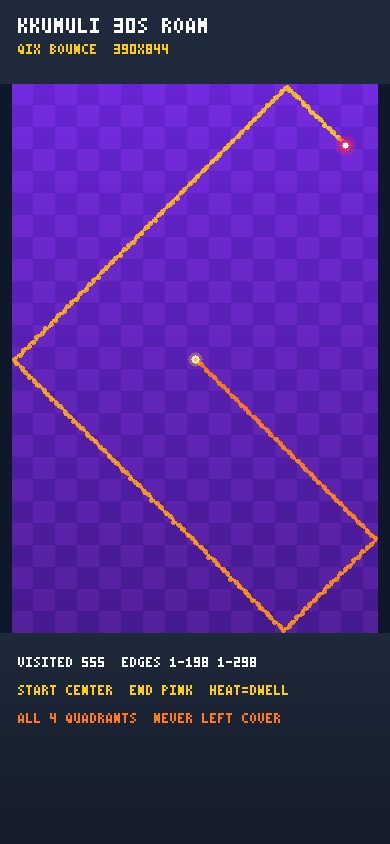
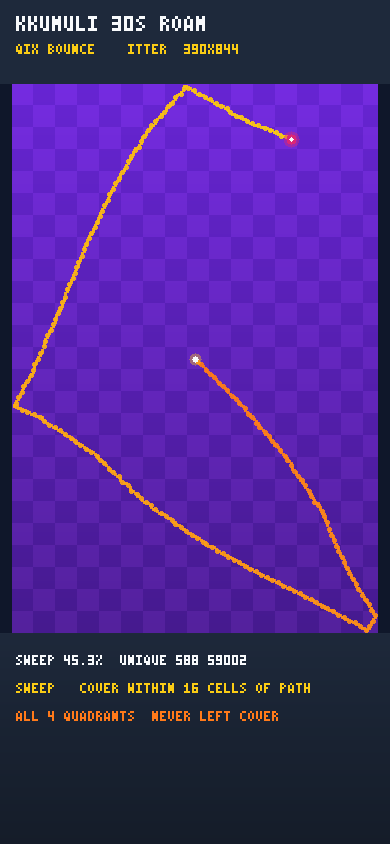
fix: deterministic match end, boss wall DDA, seeded roam, bloom
P0: QA room matchTicks 40 so dispose-after-end does not wait for a
boss hit. P1: substep <=0.5 cell plus segment DDA; 1-cell wall at
75% opened for 3000 ticks. P2: match-seed spawn, bounce jitter,
speed cap 1.8x player, stronger ~40px orb bloom and trail glow.

diff --git a/packages/engine/src/engine.ts b/packages/engine/src/engine.ts
@@ -32,6 +32,8 @@ import {
   stepFixed,
   toFp,
   wrapAngle,
+  COS,
+  SIN,
 } from './lut.js';
 import { claimClosedTrail, countCells } from './cover.js';
 import {
@@ -49,6 +51,7 @@ export function createInitialState(options?: {
   width?: number;
   height?: number;
   matchTicks?: number;
+  seed?: number;
 }): MatchState {
   const w = options?.width ?? GRID_WIDTH;
   const h = options?.height ?? GRID_HEIGHT;
@@ -70,6 +73,7 @@ export function createInitialState(options?: {
   grid[p1y][p1x] = CellType.SAFE_EDGE;
   grid[p2y][p2x] = CellType.SAFE_EDGE;
 
+  const spawn = spawnBoss(w, h, options?.seed ?? 0);
   return {
     grid,
     gridWidth: w,
@@ -77,10 +81,9 @@ export function createInitialState(options?: {
     player1: makePlayer(p1x, p1y, 192),
     player2: makePlayer(p2x, p2y, 64),
     boss: {
-      xFp: toFp(w >> 1),
-      yFp: toFp(h >> 1),
-      // 45° LUT octant (32). Shallow heading 20 stayed in a horizontal band.
-      heading: 32,
+      xFp: toFp(spawn.x),
+      yFp: toFp(spawn.y),
+      heading: spawn.heading,
       edgeDir: 0,
     },
     sparx1: {
@@ -105,6 +108,18 @@ export function createInitialState(options?: {
 function snapCell(player: PlayerState): void {
   player.position.x = cellOf(player.xFp);
   player.position.y = cellOf(player.yFp);
+}
+
+/** Match-seeded COVER spawn. Seed 0 stays center / heading 32 for tests. */
+function spawnBoss(w: number, h: number, seed: number): { x: number; y: number; heading: number } {
+  const s = seed >>> 0;
+  const cx = w >> 1;
+  const cy = h >> 1;
+  const x = Math.min(w - 3, Math.max(2, cx + (s === 0 ? 0 : (s % 17) - 8)));
+  const y = Math.min(h - 3, Math.max(2, cy + (s === 0 ? 0 : ((s >>> 5) % 21) - 10)));
+  let heading = s === 0 ? 32 : 24 + ((s >>> 3) % 25);
+  if (heading === 40) heading = 36;
+  return { x, y, heading };
 }
 
 function makePlayer(x: number, y: number, heading: number): PlayerState {
@@ -584,11 +599,12 @@ function tickFuse(state: MatchState, events: GameEvent[]): void {
 function bossSpeed(state: MatchState): number {
   const total = state.gridWidth * state.gridHeight;
   const opened = total - countCells(state.grid, CellType.COVER) - countCells(state.grid, CellType.SAFE_EDGE);
-  // 288 on the 200-wide board (~1.5× player): 45° bounce reaches every cover
-  // edge within 30s. Smaller test boards scale so a corner-parked boss cannot
-  // cross the miniature arena in a handful of ticks.
+  // 288 on the 200-wide board (~1.5× player). Cap 1.8× player so late-game
+  // cannot skip 1-cell walls even before substeps.
   const base = Math.max(64, Math.floor((288 * state.gridWidth) / GRID_WIDTH));
-  return base + Math.floor((opened * 192) / total);
+  const raw = base + Math.floor((opened * 192) / total);
+  const cap = Math.floor((PLAYER_SPEED_FP * 9) / 5);
+  return raw > cap ? cap : raw;
 }
 
 function bossCanStand(state: MatchState, x: number, y: number): boolean {
@@ -597,16 +613,90 @@ function bossCanStand(state: MatchState, x: number, y: number): boolean {
   return isCover(cell) || isTrail(cell);
 }
 
-/** Qix bounce: reflect over the blocked axis. LUT headings only. */
-function bounceHeading(heading: number, blockX: boolean, blockY: boolean): number {
+/** Sample the segment every 0.25 cell so a 1-cell wall cannot be skipped. */
+function segmentClear(state: MatchState, x0Fp: number, y0Fp: number, x1Fp: number, y1Fp: number): boolean {
+  const dx = x1Fp - x0Fp;
+  const dy = y1Fp - y0Fp;
+  const adx = dx < 0 ? -dx : dx;
+  const ady = dy < 0 ? -dy : dy;
+  const span = adx > ady ? adx : ady;
+  const n = span > 64 ? span >> 6 : 1;
+  let px = cellOf(x0Fp);
+  let py = cellOf(y0Fp);
+  for (let i = 1; i <= n; i++) {
+    const x = x0Fp + ((dx * i) / n | 0);
+    const y = y0Fp + ((dy * i) / n | 0);
+    const cx = cellOf(x);
+    const cy = cellOf(y);
+    if (cx === px && cy === py) continue;
+    if (!bossCanStand(state, cx, cy)) return false;
+    px = cx;
+    py = cy;
+  }
+  return true;
+}
+
+const BOSS_DIAG = [
+  20, 28, 36, 44,
+  84, 92, 100, 108,
+  148, 156, 164, 172,
+  212, 220, 228, 236,
+] as const;
+
+/** Qix bounce: reflect, then pick another same-sign diagonal (breaks ping-pong). */
+function bounceHeading(heading: number, blockX: boolean, blockY: boolean, pick: number): number {
   let h = heading;
   if (blockX) h = wrapAngle(128 - h);
   if (blockY) h = wrapAngle(-h);
-  return h;
+  if (wrapAngle(h - heading) === 128) h = wrapAngle(h + 32);
+  const sx = COS[h] >= 0;
+  const sy = SIN[h] >= 0;
+  let chosen = keepDiagonal(h);
+  let k = pick >>> 0;
+  for (let i = 0; i < BOSS_DIAG.length; i++) {
+    const d = BOSS_DIAG[(k + i) % BOSS_DIAG.length];
+    if ((COS[d] >= 0) === sx && (SIN[d] >= 0) === sy) {
+      chosen = d;
+      break;
+    }
+  }
+  return chosen;
 }
 
+function keepDiagonal(heading: number): number {
+  const h = wrapAngle(heading);
+  const ac = COS[h] < 0 ? -COS[h] : COS[h];
+  const as = SIN[h] < 0 ? -SIN[h] : SIN[h];
+  if (ac >= 64 && as >= 64) return h;
+  const sx = COS[h] >= 0;
+  const sy = SIN[h] >= 0;
+  if (sx && sy) return 32;
+  if (!sx && sy) return 96;
+  if (!sx && !sy) return 160;
+  return 224;
+}
+
+function detJitter(state: MatchState): number {
+  const n = (Math.imul(state.tick + 3, 1103515245) + (state.boss.xFp ^ state.boss.yFp) + 12345) >>> 0;
+  return ((n >>> 16) % 17) - 8;
+}
+
+/** 0.5 cell. Cardinal step of this size cannot skip a wall cell. */
+const BOSS_SUBSTEP_FP = 128;
+
 function moveBoss(state: MatchState, events: GameEvent[]): void {
-  const speed = bossSpeed(state);
+  if (state.tick !== 0 && (state.tick & 31) === 0) {
+    state.boss.heading = keepDiagonal(wrapAngle(state.boss.heading + detJitter(state)));
+  }
+  let remaining = bossSpeed(state);
+  while (remaining > 0) {
+    const sub = remaining > BOSS_SUBSTEP_FP ? BOSS_SUBSTEP_FP : remaining;
+    remaining -= sub;
+    if (!moveBossSub(state, events, sub)) return;
+  }
+}
+
+function moveBossSub(state: MatchState, events: GameEvent[], speed: number): boolean {
   const bx = cellOf(state.boss.xFp);
   const by = cellOf(state.boss.yFp);
   let heading = state.boss.heading;
@@ -614,27 +704,26 @@ function moveBoss(state: MatchState, events: GameEvent[]): void {
     const next = stepFixed(state.boss.xFp, state.boss.yFp, h, speed);
     const cx = cellOf(next.xFp);
     const cy = cellOf(next.yFp);
-    if (!bossCanStand(state, cx, cy)) return false;
+    if (!segmentClear(state, state.boss.xFp, state.boss.yFp, next.xFp, next.yFp)) return false;
     state.boss.xFp = next.xFp;
     state.boss.yFp = next.yFp;
     state.boss.heading = h;
-    hitTrailAndDrawer(state, cx, cy, events);
+    if (cx !== bx || cy !== by) hitTrailAndDrawer(state, cx, cy, events);
     return true;
   };
-  if (tryMove(heading)) return;
+  if (tryMove(heading)) return true;
   const probe = stepFixed(state.boss.xFp, state.boss.yFp, heading, speed);
   const nx = cellOf(probe.xFp);
   const ny = cellOf(probe.yFp);
   const blockX = nx !== bx && !bossCanStand(state, nx, by);
   const blockY = ny !== by && !bossCanStand(state, bx, ny);
-  // Diagonal-only block (corner): reflect both axes.
   const corner = !blockX && !blockY;
-  heading = bounceHeading(heading, blockX || corner, blockY || corner);
-  if (tryMove(heading)) return;
-  // Prefer remaining 45° octants so a wall slide cannot collapse to a 1-axis orbit.
+  heading = bounceHeading(heading, blockX || corner, blockY || corner, detJitter(state) + 8);
+  if (tryMove(heading)) return true;
   for (const delta of [32, 224, 96, 160, 64, 192, 128]) {
-    if (tryMove(wrapAngle(state.boss.heading + delta))) return;
+    if (tryMove(wrapAngle(state.boss.heading + delta))) return true;
   }
+  return false;
 }
 
 function moveSparx(state: MatchState, events: GameEvent[]): void {

diff --git a/packages/engine/src/engine.test.ts b/packages/engine/src/engine.test.ts
@@ -1129,6 +1129,66 @@ describe('cover engine (Amy ★)', () => {
     expect(maxX).toBeGreaterThanOrEqual(state.gridWidth - 5);
     expect(minY).toBeLessThanOrEqual(4);
     expect(maxY).toBeGreaterThanOrEqual(state.gridHeight - 5);
+    // Sweep radius 16: half of the 62-cell sprite is 31; 16 is the body core.
+    const sweepR = 16;
+    const swept = new Set<number>();
+    let coverCount = 0;
+    for (let y = 1; y < state.gridHeight - 1; y++) {
+      for (let x = 1; x < state.gridWidth - 1; x++) {
+        if (!isCover(state.grid[y][x])) continue;
+        coverCount++;
+      }
+    }
+    for (const key of visited) {
+      const vx = (key / 1024) | 0;
+      const vy = key & 1023;
+      for (let dy = -sweepR; dy <= sweepR; dy++) {
+        for (let dx = -sweepR; dx <= sweepR; dx++) {
+          const x = vx + dx;
+          const y = vy + dy;
+          if (x < 1 || y < 1 || x >= state.gridWidth - 1 || y >= state.gridHeight - 1) continue;
+          if (isCover(state.grid[y][x])) swept.add(x * 1024 + y);
+        }
+      }
+    }
+    expect(swept.size / coverCount, '>=40% of cover swept in 30s').toBeGreaterThanOrEqual(0.4);
+  });
+
+  test('boss start heading and path differ by match seed', () => {
+    const a = createInitialState({ seed: 1 });
+    const b = createInitialState({ seed: 2 });
+    expect(a.boss.heading !== b.boss.heading || a.boss.xFp !== b.boss.xFp || a.boss.yFp !== b.boss.yFp).toBe(true);
+    const playSeed = (seed: number) => {
+      let s = createInitialState({ seed, matchTicks: 200 });
+      s = run(s, [], 80);
+      return fingerprint(s);
+    };
+    expect(playSeed(1)).not.toBe(playSeed(2));
+  });
+
+  test('boss does not tunnel through a 1-cell wall at 75% opened', () => {
+    let state = createInitialState({ matchTicks: 4000, seed: 0 });
+    const w = state.gridWidth;
+    const h = state.gridHeight;
+    const wallX = 170;
+    for (let y = 1; y < h - 1; y++) {
+      for (let x = 1; x < w - 1; x++) {
+        if (x <= 150 || x === wallX) state.grid[y][x] = CellType.PLAYER1_OPEN;
+      }
+    }
+    const total = w * h;
+    const opened = total - countCells(state.grid, CellType.COVER) - countCells(state.grid, CellType.SAFE_EDGE);
+    expect(opened * 100).toBeGreaterThanOrEqual(total * 70);
+    state.boss.xFp = toFp(160);
+    state.boss.yFp = toFp(150);
+    state.boss.heading = 32;
+    for (let i = 0; i < 3000; i++) {
+      state = step(state, []).state;
+      const x = cellOf(state.boss.xFp);
+      const y = cellOf(state.boss.yFp);
+      expect(isCover(state.grid[y][x]), `left cover at ${x},${y}`).toBe(true);
+      expect(x, `tunneled onto/past wall at tick ${state.tick}`).toBeLessThan(wallX);
+    }
   });
 
   test('boss bounce stays inside shrinking cover', () => {

diff --git a/packages/server/src/reconnection.test.ts b/packages/server/src/reconnection.test.ts
@@ -3,6 +3,7 @@ import { WebSocketTransport } from '@colyseus/ws-transport';
 import { Client } from '@colyseus/sdk';
 import { createInitialState, step } from '@turf-duel/engine';
 import { TurfDuelRoom } from './rooms/TurfDuelRoom.js';
+import { TurfDuelQaRoom } from './rooms/TurfDuelQaRoom.js';
 import { clockRooms, TurfDuelClockRoom } from './rooms/TurfDuelClockRoom.js';
 import { TurfDuelState } from './schema/TurfDuelState.js';
 
@@ -704,7 +705,20 @@ async function testWaitingRoomLeaveFreesSeat(): Promise<ReconnectionTestResult> 
 }
 
 async function testRoomDisposesAfterNormalEnd(): Promise<ReconnectionTestResult> {
-  const { server, room1 } = await startPair(12585);
+  const server = new Server({
+    transport: new WebSocketTransport({}),
+  });
+  server.define('turf_duel', TurfDuelQaRoom);
+  await server.listen(12585);
+  const client1 = new Client('ws://localhost:12585');
+  const client2 = new Client('ws://localhost:12585');
+  const short = { matchTicks: 40 };
+  const room1 = await client1.joinOrCreate<TurfDuelState>('turf_duel', short);
+  const room2 = await client2.joinOrCreate<TurfDuelState>('turf_duel', short);
+  disableAutoReconnect(room1);
+  disableAutoReconnect(room2);
+  void room2;
+  await sleep(START_WAIT_MS);
   try {
     let left = false;
     let leaveCode: number | undefined;
@@ -713,8 +727,7 @@ async function testRoomDisposesAfterNormalEnd(): Promise<ReconnectionTestResult>
       leaveCode = code;
     });
 
-    room1.send('input', { direction: 'UP' });
-    await waitUntil(() => Boolean(room1.state.result), 30000, 'normal engine end');
+    await waitUntil(() => Boolean(room1.state.result), 5000, 'normal engine end');
 
     const result = room1.state.result as { winner: number; reason: string } | undefined;
     if (!result || result.reason === '연결 끊김' || result.reason === '양쪽 연결 끊김 (무효)') {

diff --git a/packages/client/src/main.ts b/packages/client/src/main.ts
@@ -42,8 +42,8 @@ const ORB_CELLS = 16;
 const ORB_MIN_CSS = 25;
 /** ~2× display; LINEAR downscale stays smooth (128→26px aliased). */
 const ORB_TEX = 64;
-/** Soft bloom diameter in CSS px. Converted to game units via displayScale. */
-const ORB_BLOOM_CSS = 40;
+/** Soft bloom sprite in CSS px. Falloff stays visible out to ~40px. */
+const ORB_BLOOM_CSS = 56;
 const ORB_BLOOM_TEX = 64;
 const QA_STEPS_PER_PULSE = 6;
 const QA_STEPS_AFTER_CUT = 16;
@@ -1019,13 +1019,20 @@ class GameScene extends Phaser.Scene {
       gfx.fillStyle(color, alpha);
       for (const p of dots) gfx.fillCircle(p.x, p.y, radius);
     };
-    // Stamp RADIUS in cells. Core WIDTH ~4–5px at 390 (PR #8); glow stays tight so it does not read as 7px solid.
-    const glowR = scale * 2.0;
-    const midR = scale * 1.05;
+    // Stamp RADIUS in cells. Core WIDTH ~4–5px at 390. Outer glow is visible but below 7px solid.
+    const glowR = scale * 3.2;
+    const midR = scale * 1.35;
     const coreR = scale * 0.85;
     const hiR = scale * 0.32;
-    stamp(glowGfx, glowR, glow, 0.16);
-    stamp(glowGfx, midR, glow, 0.28);
+    if (this.trailBloom && dots.length >= 2 && !dashed) {
+      this.trailBloom.lineStyle(scale * 5.5, glow, 0.14);
+      this.trailBloom.beginPath();
+      this.trailBloom.moveTo(pts[0].x, pts[0].y);
+      for (let i = 1; i < pts.length; i++) this.trailBloom.lineTo(pts[i].x, pts[i].y);
+      this.trailBloom.strokePath();
+    }
+    stamp(glowGfx, glowR, glow, 0.28);
+    stamp(glowGfx, midR, glow, 0.4);
     stamp(this.trailGfx, coreR, glow, 1);
     stamp(this.trailGfx, hiR, core, 1);
   }

diff --git a/packages/server/src/rooms/TurfDuelRoom.ts b/packages/server/src/rooms/TurfDuelRoom.ts
@@ -22,6 +22,14 @@ interface PlayerDisconnectInfo {
   currentDisconnectStartTime: number | null;
 }
 
+function seedFromRoom(id: string | number): number {
+  if (typeof id === 'number' && Number.isFinite(id)) return id >>> 0;
+  const s = String(id ?? 'duel');
+  let h = 2166136261;
+  for (let i = 0; i < s.length; i++) h = Math.imul(h ^ s.charCodeAt(i), 16777619);
+  return h >>> 0;
+}
+
 export class TurfDuelRoom extends Room<{ state: TurfDuelState }> {
   protected inputQueue: PlayerInput[] = [];
   protected bytesPerSecondPerPlayer = new Map<string, number[]>();
@@ -56,7 +64,10 @@ export class TurfDuelRoom extends Room<{ state: TurfDuelState }> {
       && options.matchTicks > 0
       ? options.matchTicks
       : undefined;
-    this.matchState = createInitialState(matchTicks !== undefined ? { matchTicks } : undefined);
+    this.matchState = createInitialState({
+      ...(matchTicks !== undefined ? { matchTicks } : {}),
+      seed: seedFromRoom(typeof options?.seed === 'number' ? options.seed : this.roomId),
+    });
     state.gridWidth = this.matchState.gridWidth;
     state.gridHeight = this.matchState.gridHeight;
     

diff --git a/packages/client/src/visualA.ts b/packages/client/src/visualA.ts
@@ -321,10 +321,11 @@ export function paintOrbBloom(
   g.clearRect(0, 0, s, s);
   const cx = s / 2;
   const cy = s / 2;
-  const glow = g.createRadialGradient(cx, cy, s * 0.06, cx, cy, s * 0.5);
-  glow.addColorStop(0, hexAlpha(color, 0.55));
-  glow.addColorStop(0.28, hexAlpha(color, 0.28));
-  glow.addColorStop(0.58, hexAlpha(color, 0.10));
+  const glow = g.createRadialGradient(cx, cy, s * 0.04, cx, cy, s * 0.5);
+  glow.addColorStop(0, hexAlpha(color, 0.82));
+  glow.addColorStop(0.18, hexAlpha(color, 0.55));
+  glow.addColorStop(0.42, hexAlpha(color, 0.28));
+  glow.addColorStop(0.7, hexAlpha(color, 0.12));
   glow.addColorStop(1, hexAlpha(color, 0));
   g.fillStyle = glow;
   g.beginPath();
